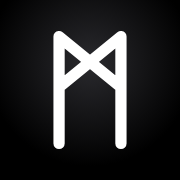
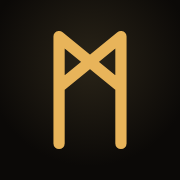
CLAUDE.md e README con la nuova direzione e gli eventi delle statistiche; immagine social e icone nei colori caldi
Claude-Session: https://claude.ai/code/session_018a9U2Q5NtjR1sWr2vvAtBy

Changed region(s): [[0.2778, 0.1667, 0.7222, 0.8333]]

diff --git a/index.html b/index.html
@@ -16,13 +16,13 @@
   <meta property="og:type" content="website">
   <meta property="og:locale" content="it_IT">
   <meta property="og:site_name" content="MIMIR">
-  <meta property="og:title" content="MIMIR — Anteprima · Assistente AI locale e vocale">
+  <meta property="og:title" content="MIMIR — Vive sul mio Mac. Sta imparando a parlare.">
   <meta property="og:description" content="MIMIR è l'assistente AI personale che sto costruendo: vive sul Mac, parla italiano e tiene i dati in casa. Anteprima di un progetto in sviluppo.">
   <meta property="og:url" content="https://riccardopa.github.io/mimir-site/">
   <meta property="og:image" content="https://riccardopa.github.io/mimir-site/og-image.png">
   <meta property="og:image:width" content="1200">
   <meta property="og:image:height" content="630">
-  <meta property="og:image:alt" content="La runa ᛗ e la scritta MIMIR su sfondo nero">
+  <meta property="og:image:alt" content="La runa ᛗ in oro e la scritta MIMIR su sfondo nero caldo">
   <meta name="twitter:card" content="summary_large_image">
 
   <!-- i font sono nella cartella fonts/: nessuna chiamata a Google -->

diff --git a/CLAUDE.md b/CLAUDE.md
@@ -22,57 +22,82 @@
   Niente pagine separate, niente schede, niente slide.
 - Sito statico per GitHub Pages: solo HTML, CSS e JavaScript.
   Niente build, niente npm, niente framework. Percorsi relativi.
-- Stile: ispirato al sito di Apple. Bianco e nero, tanto spazio,
-  titoli grandi, dettagli curati.
+- Pagina corta: 4 capitoli, ognuno con la sua runa (filo conduttore):
+  ᛗ Apertura = Demo · ᛞ Una giornata (compatta) · ᛟ Moduli + storia del
+  nome (orbita + tessere) · ᛃ Come è fatto + Stato dei lavori (#stato)
+  + privacy in breve + nota firmata + domande.
+- Niente doppioni e niente sezioni lunghe: tolti «Chiamalo/Parla/Ascolta»,
+  il disegno Mac/iPhone, la tabella privacy grande, il blocco finale.
 - Mai nascondere contenuti in attesa dello scorrimento (niente effetti
   "compare quando scorri"): tutto deve essere visibile subito.
-- Font di sistema stile Apple (SF Pro sui Mac, Inter come riserva).
-  Niente Orbitron, niente font "futuristici".
-  Unica eccezione: Noto Sans Runic, solo per i simboli delle rune.
-- I font stanno nella cartella fonts/: niente Google Fonts, nessuna
-  chiamata a siti esterni (il sito parla di privacy, deve rispettarla).
-- Tono personale, non da azienda: rune, capitoli numerati, la storia
-  del nome (mitologia norrena) e la nota firmata da Riccardo.
-- Colori: bianco, nero e grigi, più UN solo accento: l'oro del vero MIMIR
-  (intro D-040). Tutte le variabili sono in cima a style.css.
-  · --gold #e8b45a: oro principale, su sfondi neri e scuri (pallino
-    «in ascolto», runa attiva, onda della voce, etichette).
-  · --gold-light #ffd98a: solo bagliori e luci (sfera, onda che parla).
-  · --gold-dark #8a6420: al posto dell'oro sulle sezioni bianche/chiare,
-    dove #e8b45a non si legge (la variabile --accent cambia da sola).
-  · Etichette: «Funziona oggi» pieno oro con testo nero (sul chiaro pieno
-    #8a6420 con testo bianco); «In sviluppo» solo contorno oro;
-    «In programma» grigio.
-  · Interruttori accesi: bianchi. Niente verde da nessuna parte.
-  · Niente fucsia, viola o acqua.
-- La demo in demo.js è simulata: mai dati personali reali,
-  solo dati inventati.
-- MIMIR è solo vocale: nella demo niente caselle di testo.
-- Niente reattore 3D: è stato tolto. Al suo posto c'è la sfera luminosa
-  fatta solo con CSS (classe orb-core in style.css). La sfera compare
-  solo in apertura (anche nei disegni di Mac e iPhone) e nella demo.
-- 7 capitoli, in quest'ordine, ognuno con la sua runa al posto del numero:
-  ᛗ Apertura · ᚨ Demo · ᛞ Una giornata · ᛟ Moduli (nome + orbita + tessere)
-  · ᛉ Privacy · ᛃ Come è fatto + Stato dei lavori (#stato) · ᚱ Nota + Domande.
-- Niente doppioni: i moduli si presentano solo con orbita e tessere.
-- Mac e iPhone disegnati come nei film: schermo quasi vuoto, sfera al
-  centro, una riga di sottotitolo. Niente fumetti da chat.
+- Stile: personale, non da Apple. Tutto su nero caldo, niente fasce
+  bianche. Titoli di misura media con carattere; le rune guidano.
+- Font: Inter (cartella fonts/), SF Pro su Mac e iPhone. Niente serif,
+  niente Orbitron o font "futuristici". Unica eccezione: Noto Sans Runic,
+  solo per i simboli delle rune.
+- Colori dell'intro dell'app (D-040), variabili in cima a style.css:
+  · sfondo nero caldo #0b0907; testo crema --cream #f3e6c8;
+  · --gold #e8b45a: oro principale (pallino «in ascolto», runa attiva,
+    onda della voce, etichette, tasti);
+  · --gold-light #ffd98a: solo bagliori e luci (sfera, onda che parla);
+  · --gold-dim #8a7350: oro spento, scritte secondarie;
+  · --bronze #5a4b33 e --bronze-dark #2a2418: bordi e linee.
+  · Etichette: «Funziona oggi» pieno oro con testo nero; «In sviluppo»
+    solo contorno oro; «In programma» oro spento tratteggiato.
+  · Interruttori accesi: bianchi. Niente verde, fucsia, viola o acqua.
+- MIMIR è solo vocale: nella demo niente caselle di testo e niente microfono.
+- Niente reattore 3D: c'è la sfera luminosa fatta con CSS (orb-core),
+  solo nell'apertura, che è anche il palco della demo.
 - Orbita dei moduli lentissima, si ferma col mouse sopra. Tessere: sul
-  computer descrizione subito visibile, su telefono si girano.
-- Su telefono c'è il menu "Capitoli" in alto.
-- Le immagini (Mac, iPhone, orbita dei moduli) sono disegnate con
-  HTML e CSS, con nomi e dati inventati.
+  computer descrizione subito visibile, su telefono due per riga,
+  solo nome + etichetta, si girano per la descrizione.
+- Su telefono c'è il menu "Capitoli" in alto. Il tasto «Prova MIMIR»
+  deve vedersi su iPhone senza scorrere (anche iPhone SE).
+
+## La demo (demo.js) = l'apertura
+- Tasto grande «Prova MIMIR». MIMIR saluta usando SOLO quello che il
+  browser sa già: buongiorno/buon pomeriggio/buonasera, giorno e ora,
+  dispositivo (iPhone, iPad, Mac, Windows, Android…), zona dal fuso
+  orario (es. Europe/Rome → «dall'Italia», altrimenti «dalle tue parti»).
+- Testo del saluto: «Buonasera. È martedì, sono le 21:40. Mi stai
+  guardando da un iPhone, dall'Italia. Io sono MIMIR. Odino diede un
+  occhio per la saggezza. A te è bastato un browser.»
+- Il saluto è SOLO sottotitolo, scritto lettera per lettera, senza voce
+  (è dinamico: non si può registrare). La voce parte dalla frase dopo:
+  «Ti faccio sentire come comincia una mattina con me.», poi un recap
+  inventato SENZA nomi di persona, poi la chiusura: «L'ora, il giorno,
+  il dispositivo e la zona li ho capiti dal tuo browser. Non sono usciti
+  da qui. Il resto era inventato.»
+- I dati del saluto si calcolano al momento: mai salvati, mai inviati
+  (nemmeno a GoatCounter).
+- Dopo il saluto si scelgono le altre scene; c'è sempre «Salta».
+- Tutto il resto della demo è simulato: mai dati personali reali.
+
+## Statistiche (GoatCounter, codice mimir-site)
+- contatore.js (nel sito, in fondo a index.html) è l'UNICA eccezione
+  alla regola «nessuna chiamata a siti esterni». Manda solo: la visita
+  (pagina, titolo, referrer) e il nome fisso degli eventi.
+- Eventi: «prova-mimir» (tasto della demo) · «scena-<nome>» (scelta di una
+  scena: saluto, recap, casa, memoria, anomalie) · «demo-completata»
+  (scena arrivata alla fine) · «segui-progetto» · «tessera-<modulo>»
+  (tessera girata, solo telefono) · «menu-capitoli».
+- Nella privacy c'è la riga: «Conto le visite con GoatCounter: niente
+  cookie, nessun dato personale.»
+- Font, immagini e tutto il resto restano nel sito: nessun'altra
+  chiamata esterna.
 
 ## Onestà: "vendere senza vendere"
 - Al presente solo ciò che funziona già. Il resto si scrive "in arrivo".
-- Ogni funzione descritta (giornata, "Cosa sa fare", FAQ, tessere) ha
+- Ogni funzione descritta (giornata, privacy, FAQ, tessere, come è fatto) ha
   un'etichetta piccola: "Funziona oggi", "In sviluppo" o "In programma".
   Prima di assegnarne una nuova, chiedi a Riccardo in chat.
 - In apertura c'è l'etichetta "Anteprima · in sviluppo".
 - Titolo dell'apertura (scelto da Riccardo): «Vive sul mio Mac. Sta imparando
-  a parlare.» La sezione sul nome finisce con «Gli ho dato un Mac.»
-- Il tasto finale è "Segui il progetto" (niente "Compra" o "Scarica"):
-  porta all'ancora #stato, dove ci sarà la sezione "Stato dei lavori".
+  a parlare.» Sottotitolo: «Ragiona in italiano e tiene i miei dati in casa.
+  Presto ricorderà quello che conta. Lo sto costruendo un pezzo alla volta.»
+  La storia del nome finisce con «Gli ho dato un Mac.»
+- Il tasto "Segui il progetto" (in alto, niente "Compra" o "Scarica")
+  porta all'ancora #stato, la sezione "Stato dei lavori".
 - Niente link a LinkedIn, da nessuna parte del sito.
 - Il link al repository GitHub sta solo in fondo alla pagina, in piccolo.
 - Se un riquadro mostra più funzioni con stati diversi, si usa

diff --git a/README.md b/README.md
@@ -1,22 +1,26 @@
 # MIMIR — sito vetrina
 
 Sito di presentazione di MIMIR, assistente AI personale locale e vocale.
-La demo è **simulata**: dialoghi scritti a mano, dati inventati.
+La demo è **simulata**: il saluto usa solo ciò che il browser sa già
+(ora, giorno, dispositivo, fuso orario) e non lo salva né lo invia;
+il resto sono dialoghi scritti a mano con dati inventati.
 
 ## File
 | File | A cosa serve |
 |---|---|
-| `index.html` | Struttura e testi della pagina |
-| `style.css` | Colori, font e impaginazione. La palette (bianco e nero) è in cima al file |
-| `demo.js` | Le scene della demo (oggetto `SCENES`) |
+| `index.html` | Struttura e testi della pagina (4 capitoli) |
+| `style.css` | Colori, font e impaginazione. La palette (nero caldo e oro) è in cima al file |
+| `demo.js` | La demo dell'apertura: il saluto personalizzato e le scene (`MATTINA`, `SCENES`) |
+| `site.js` | Tessere che si girano su telefono, menu dei capitoli, runa attiva |
+| `contatore.js` | Le statistiche con GoatCounter (solo visite ed eventi con nome fisso) |
 | `fonts/` | I font Inter e Noto Sans Runic, salvati qui per non chiamare Google |
 | `favicon.svg` | L'icona della scheda del browser (runa ᛗ) |
 | `apple-touch-icon.png` | L'icona quando salvi il sito sulla schermata Home dell'iPhone |
 | `og-image.png` | L'immagine che compare quando condividi il link (1200x630) |
-| `site.js` | Le animazioni che fanno comparire i contenuti mentre scorri e l'onda sonora grande |
 
 ## Pubblicazione
 GitHub Pages: Settings → Pages → Deploy from a branch → `main` / `(root)`.
 Indirizzo: https://riccardopa.github.io/mimir-site/
 
-Nessuna installazione necessaria e nessuna chiamata esterna: anche i font sono nei file.
+Nessuna installazione necessaria. L'unica chiamata esterna è il contatore
+GoatCounter (niente cookie, nessun dato personale).
